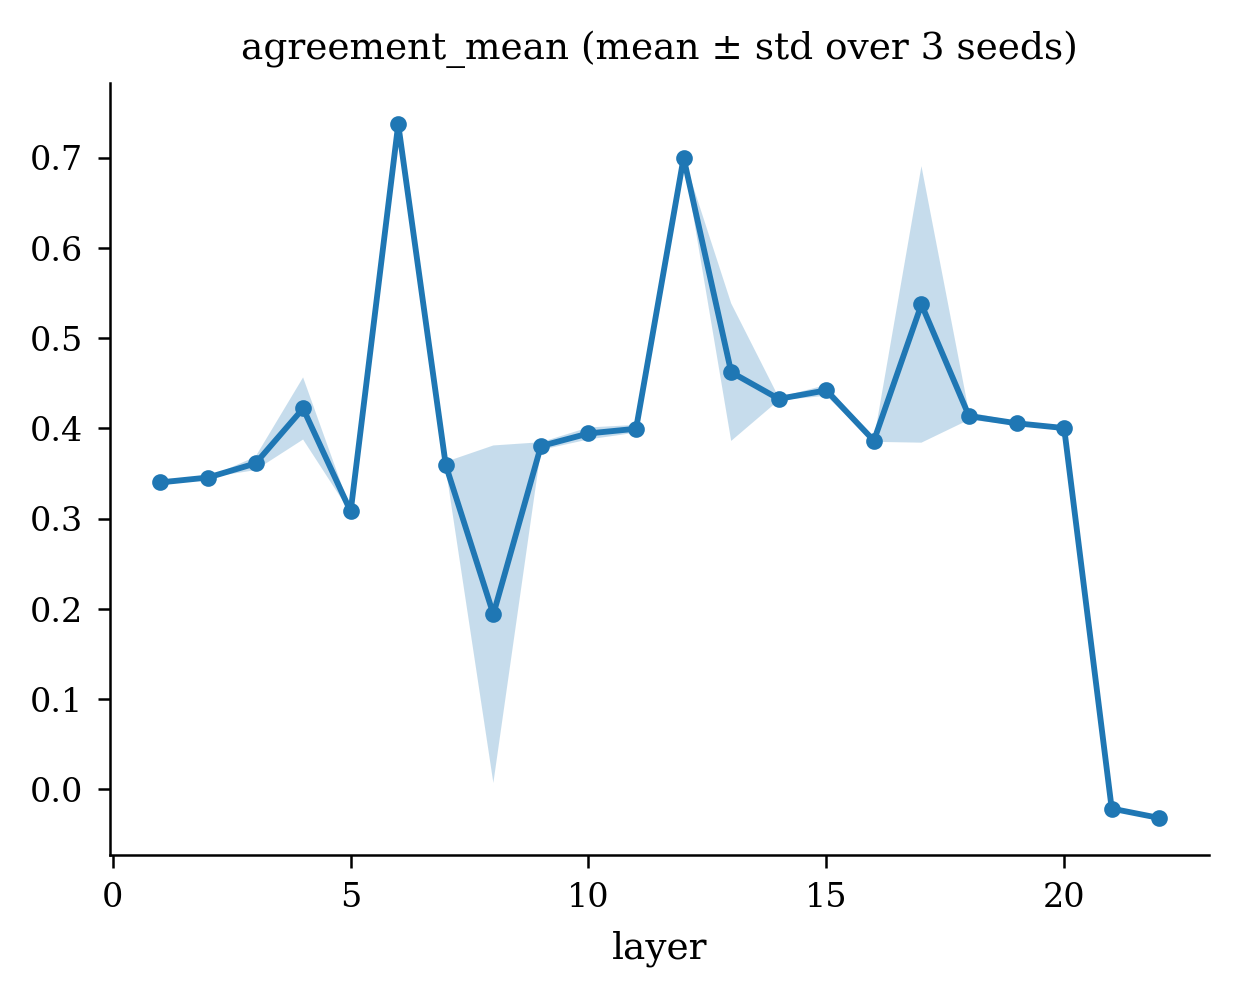
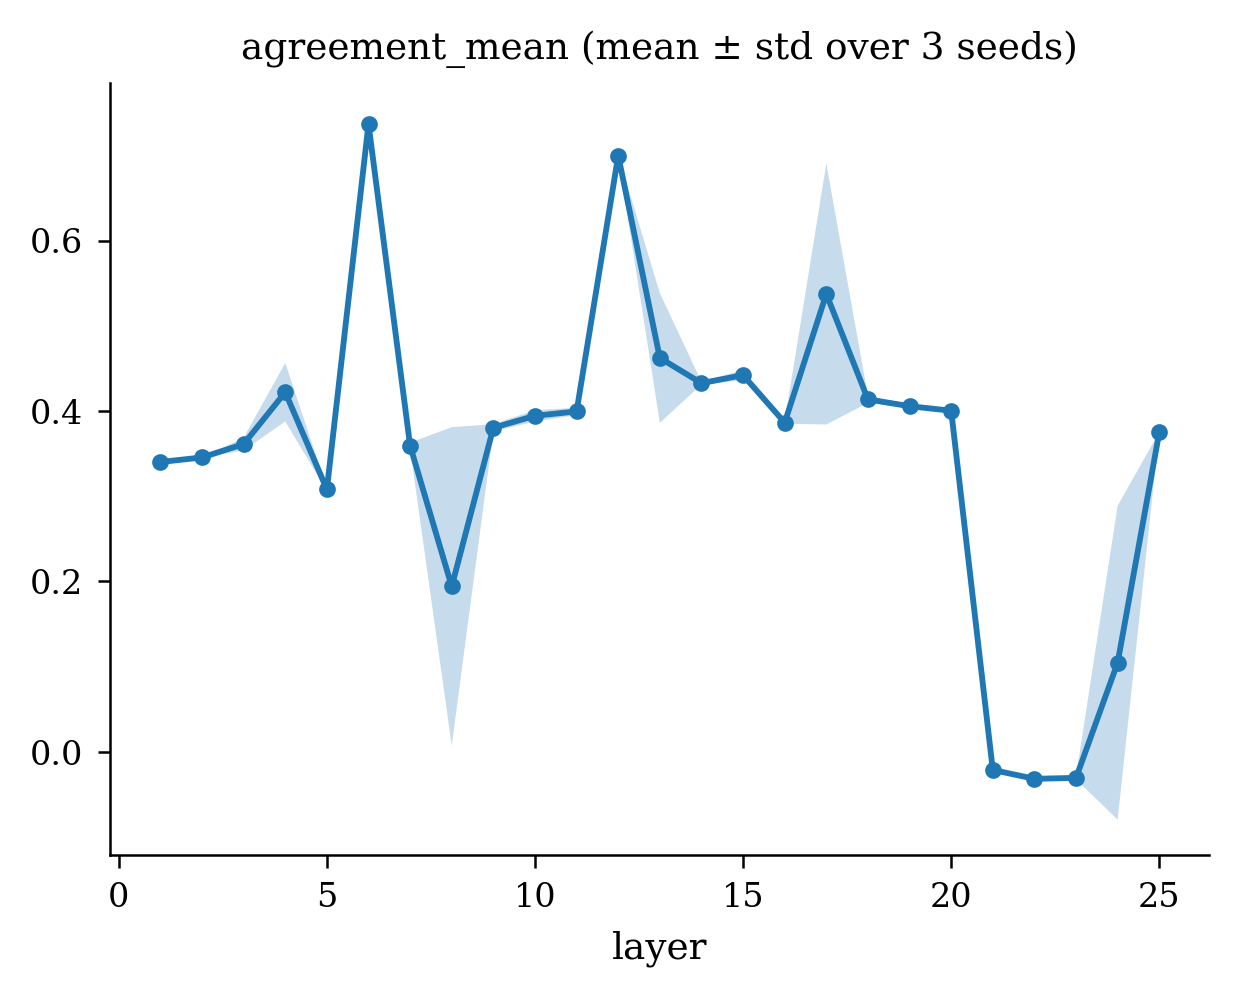
results: extend gemma-2-2b layer sweeps to the full range
Re-ran all three drivers for gemma over layers 1-25. Every pre-existing row is
byte-identical and the three new layers are appended, as expected: each layer's
analysis is independent of the range. Focal-layer outputs are untouched (layer
13 is unchanged and its tensor byte-identical), so only the sweep files and
provenance moved.

The newly covered layers are not redundant: MeanDiff CV accuracy falls from
0.955 at layer 22 to 0.934 at layer 25, and cross-method agreement swings from
-0.03 back to 0.375 -- the late-depth behaviour the truncated sweep could not
show.

diff --git a/results/20260530_001930/replication_tigges/gemma-2-2b/politeness/avg_token/aggregated/numeric/layer_sweep.tex b/results/20260530_001930/replication_tigges/gemma-2-2b/politeness/avg_token/aggregated/numeric/layer_sweep.tex
@@ -26,5 +26,8 @@ layer & accuracy\_mean & agreement\_mean\_mean & agreement\_mean\_std & n\_seeds
 20 & 0.9666 & 0.4002 & 0.0026 & 3 \\
 21 & 0.9572 & -0.0213 & 0.0000 & 3 \\
 22 & 0.9549 & -0.0318 & 0.0019 & 3 \\
+23 & 0.9453 & -0.0307 & 0.0018 & 3 \\
+24 & 0.9524 & 0.1046 & 0.1843 & 3 \\
+25 & 0.9338 & 0.3750 & 0.0003 & 3 \\
 \bottomrule
 \end{tabular}

diff --git a/results/20260530_001930/replication_tigges/gemma-2-2b/politeness/last_token/aggregated/numeric/layer_sweep.tex b/results/20260530_001930/replication_tigges/gemma-2-2b/politeness/last_token/aggregated/numeric/layer_sweep.tex
@@ -26,5 +26,8 @@ layer & accuracy\_mean & agreement\_mean\_mean & agreement\_mean\_std & n\_seeds
 20 & 0.9236 & 0.7652 & 0.0000 & 3 \\
 21 & 0.9239 & 0.7447 & 0.0006 & 3 \\
 22 & 0.9309 & 0.7571 & 0.0000 & 3 \\
+23 & 0.9308 & 0.7512 & 0.0002 & 3 \\
+24 & 0.9383 & 0.7484 & 0.0012 & 3 \\
+25 & 0.8835 & 0.4381 & 0.0032 & 3 \\
 \bottomrule
 \end{tabular}
